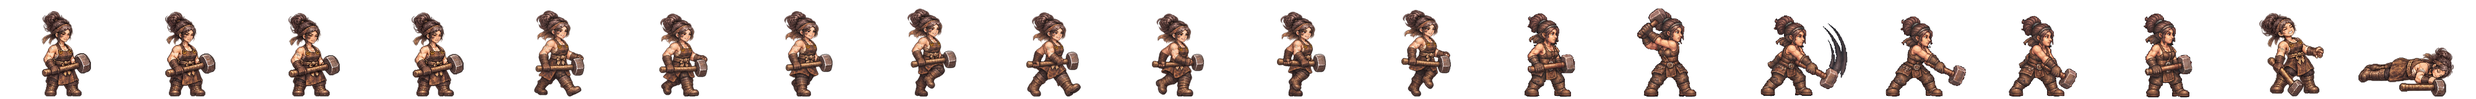
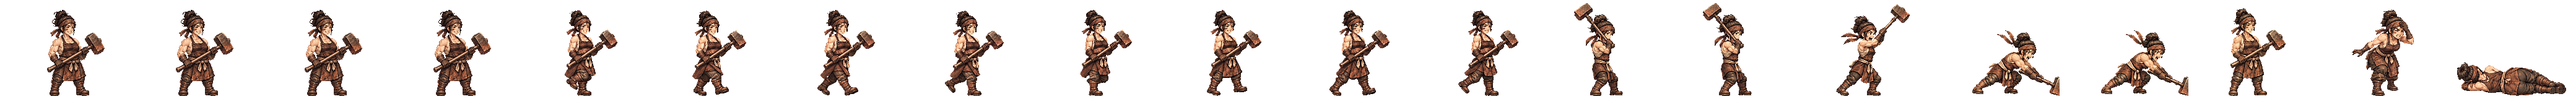
상당 불매 전투 띠를 새 방식으로: 서기·걷기·쇠망치 내려찍기 여덟 칸·두건 고쳐 매기·쓰러짐·맞음 (Codex 그림 · 눈 검수와 독립 검수) · 옛 2배 그림 연결 지움
Claude-Session: https://claude.ai/code/session_01TRiuN7s6aDfSnaHxrkctmU

Changed region(s): [[0.2188, 0.0625, 1.0, 1.0], [0.0, 0.125, 0.1875, 0.9688]]

diff --git a/src/realm/data/spritePx.ts b/src/realm/data/spritePx.ts
@@ -1,3 +1,3 @@
 /** public/realm/anim-px/manifest.json 의 사본 — tools/sprite-normalize.mjs 가 만든다 (손으로 고치지 말 것). 칸 [가로, 세로] · feet = 발 줄(칸 위에서 y) · bodyPx = 서 있는 몸 키 */
 import { expandManifest } from './sprite-manifest.ts'
-export const SPRITE_PX: Readonly<Record<string, { readonly cell: readonly [number, number]; readonly feet: number; readonly bodyPx: number; readonly kind: 'general' | 'soldier' | 'folk' | 'crowd'; readonly cells: number }>> = expandManifest<{ readonly cell: readonly [number, number]; readonly feet: number; readonly bodyPx: number; readonly kind: 'general' | 'soldier' | 'folk' | 'crowd'; readonly cells: number }>([{"cell":[166,128],"feet":126,"bodyPx":124,"kind":"soldier","cells":20},{"cell":[116,128],"feet":126,"bodyPx":117,"kind":"soldier","cells":20},{"cell":[127,128],"feet":126,"bodyPx":116,"kind":"soldier","cells":20},{"cell":[269,128],"feet":126,"bodyPx":126,"kind":"soldier","cells":20},{"cell":[503,128],"feet":126,"bodyPx":127,"kind":"soldier","cells":20},{"cell":[614,128],"feet":126,"bodyPx":126,"kind":"soldier","cells":20},{"cell":[200,160],"feet":156,"bodyPx":138,"kind":"general","cells":20},{"cell":[208,160],"feet":155,"bodyPx":138,"kind":"general","cells":20},{"cell":[208,160],"feet":154,"bodyPx":138,"kind":"general","cells":20},{"cell":[304,160],"feet":155,"bodyPx":135,"kind":"general","cells":20},{"cell":[184,160],"feet":156,"bodyPx":138,"kind":"general","cells":20},{"cell":[208,160],"feet":154,"bodyPx":136,"kind":"general","cells":20},{"cell":[232,160],"feet":156,"bodyPx":138,"kind":"general","cells":20},{"cell":[208,160],"feet":156,"bodyPx":138,"kind":"general","cells":20},{"cell":[168,160],"feet":156,"bodyPx":124,"kind":"general","cells":20},{"cell":[216,160],"feet":156,"bodyPx":130,"kind":"general","cells":20},{"cell":[200,160],"feet":156,"bodyPx":116,"kind":"general","cells":20},{"cell":[192,160],"feet":156,"bodyPx":138,"kind":"general","cells":20},{"cell":[208,160],"feet":154,"bodyPx":135,"kind":"general","cells":20},{"cell":[280,160],"feet":156,"bodyPx":138,"kind":"general","cells":20},{"cell":[232,160],"feet":156,"bodyPx":134,"kind":"general","cells":20},{"cell":[144,160],"feet":156,"bodyPx":70,"kind":"general","cells":20},{"cell":[208,160],"feet":156,"bodyPx":70,"kind":"general","cells":20},{"cell":[192,160],"feet":156,"bodyPx":70,"kind":"general","cells":20},{"cell":[240,160],"feet":155,"bodyPx":138,"kind":"general","cells":20},{"cell":[192,160],"feet":156,"bodyPx":128,"kind":"general","cells":20},{"cell":[224,160],"feet":155,"bodyPx":138,"kind":"general","cells":20},{"cell":[208,160],"feet":154,"bodyPx":137,"kind":"general","cells":20},{"cell":[216,160],"feet":156,"bodyPx":138,"kind":"general","cells":20},{"cell":[208,160],"feet":156,"bodyPx":134,"kind":"general","cells":20},{"cell":[208,160],"feet":154,"bodyPx":130,"kind":"general","cells":20},{"cell":[248,160],"feet":156,"bodyPx":138,"kind":"general","cells":20},{"cell":[248,160],"feet":155,"bodyPx":138,"kind":"general","cells":20},{"cell":[192,160],"feet":155,"bodyPx":138,"kind":"general","cells":20},{"cell":[192,160],"feet":156,"bodyPx":124,"kind":"general","cells":20},{"cell":[208,160],"feet":154,"bodyPx":131,"kind":"general","cells":20},{"cell":[256,160],"feet":156,"bodyPx":138,"kind":"general","cells":20},{"cell":[240,160],"feet":156,"bodyPx":138,"kind":"general","cells":20},{"cell":[232,160],"feet":156,"bodyPx":73,"kind":"general","cells":20},{"cell":[224,160],"feet":156,"bodyPx":138,"kind":"general","cells":20},{"cell":[224,160],"feet":156,"bodyPx":128,"kind":"general","cells":20},{"cell":[176,160],"feet":156,"bodyPx":129,"kind":"general","cells":20},{"cell":[208,160],"feet":154,"bodyPx":139,"kind":"general","cells":20},{"cell":[232,160],"feet":155,"bodyPx":138,"kind":"general","cells":20},{"cell":[208,160],"feet":156,"bodyPx":132,"kind":"general","cells":20},{"cell":[184,160],"feet":156,"bodyPx":122,"kind":"general","cells":20},{"cell":[280,160],"feet":155,"bodyPx":133,"kind":"general","cells":20},{"cell":[176,160],"feet":156,"bodyPx":70,"kind":"general","cells":20},{"cell":[186,128],"feet":126,"bodyPx":127,"kind":"soldier","cells":20},{"cell":[298,128],"feet":126,"bodyPx":126,"kind":"soldier","cells":20},{"cell":[82,128],"feet":126,"bodyPx":114,"kind":"folk","cells":8},{"cell":[134,128],"feet":126,"bodyPx":119,"kind":"soldier","cells":20},{"cell":[380,128],"feet":126,"bodyPx":124,"kind":"soldier","cells":20},{"cell":[114,128],"feet":126,"bodyPx":115,"kind":"soldier","cells":20},{"cell":[122,128],"feet":126,"bodyPx":114,"kind":"soldier","cells":20},{"cell":[254,128],"feet":126,"bodyPx":128,"kind":"soldier","cells":20},{"cell":[438,128],"feet":126,"bodyPx":126,"kind":"soldier","cells":20},{"cell":[88,128],"feet":126,"bodyPx":113,"kind":"folk","cells":8},{"cell":[100,128],"feet":126,"bodyPx":115,"kind":"folk","cells":8},{"cell":[108,128],"feet":126,"bodyPx":115,"kind":"folk","cells":8},{"cell":[63,128],"feet":126,"bodyPx":113,"kind":"folk","cells":8},{"cell":[69,96],"feet":96,"bodyPx":96,"kind":"crowd","cells":1},{"cell":[54,96],"feet":96,"bodyPx":96,"kind":"crowd","cells":1},{"cell":[47,96],"feet":96,"bodyPx":96,"kind":"crowd","cells":1},{"cell":[49,96],"feet":96,"bodyPx":96,"kind":"crowd","cells":1},{"cell":[57,96],"feet":96,"bodyPx":96,"kind":"crowd","cells":1},{"cell":[55,96],"feet":96,"bodyPx":96,"kind":"crowd","cells":1},{"cell":[45,96],"feet":96,"bodyPx":96,"kind":"crowd","cells":1},{"cell":[53,96],"feet":96,"bodyPx":96,"kind":"crowd","cells":1},{"cell":[64,96],"feet":96,"bodyPx":96,"kind":"crowd","cells":1},{"cell":[264,160],"feet":156,"bodyPx":138,"kind":"general","cells":20},{"cell":[184,160],"feet":156,"bodyPx":124,"kind":"general","cells":20},{"cell":[208,160],"feet":154,"bodyPx":134,"kind":"general","cells":20},{"cell":[224,160],"feet":156,"bodyPx":133,"kind":"general","cells":20},{"cell":[184,160],"feet":156,"bodyPx":137,"kind":"general","cells":20},{"cell":[176,160],"feet":156,"bodyPx":130,"kind":"general","cells":20},{"cell":[216,160],"feet":156,"bodyPx":134,"kind":"general","cells":20},{"cell":[216,160],"feet":156,"bodyPx":132,"kind":"general","cells":20},{"cell":[288,160],"feet":156,"bodyPx":138,"kind":"general","cells":20},{"cell":[192,160],"feet":156,"bodyPx":118,"kind":"general","cells":20},{"cell":[208,160],"feet":154,"bodyPx":132,"kind":"general","cells":20},{"cell":[208,160],"feet":154,"bodyPx":128,"kind":"general","cells":20},{"cell":[240,160],"feet":156,"bodyPx":128,"kind":"general","cells":20},{"cell":[184,160],"feet":156,"bodyPx":132,"kind":"general","cells":20},{"cell":[208,160],"feet":156,"bodyPx":123,"kind":"general","cells":20},{"cell":[192,160],"feet":156,"bodyPx":135,"kind":"general","cells":20},{"cell":[176,160],"feet":156,"bodyPx":116,"kind":"general","cells":20},{"cell":[272,160],"feet":156,"bodyPx":138,"kind":"general","cells":20},{"cell":[176,160],"feet":156,"bodyPx":138,"kind":"general","cells":20},{"cell":[176,160],"feet":156,"bodyPx":122,"kind":"general","cells":20},{"cell":[232,160],"feet":156,"bodyPx":127,"kind":"general","cells":20},{"cell":[184,160],"feet":156,"bodyPx":134,"kind":"general","cells":20},{"cell":[168,160],"feet":156,"bodyPx":138,"kind":"general","cells":20},{"cell":[176,160],"feet":156,"bodyPx":137,"kind":"general","cells":20},{"cell":[184,160],"feet":156,"bodyPx":133,"kind":"general","cells":20}],[["axe",0],["bandit-chief",1],["bandit-club",2],["boat",3],["bow",4],["crossbow",5],["gen-adogan",6],["gen-alpyeong",7],["gen-ara",8],["gen-areum",8],["gen-aryeong",9],["gen-bakdal",8],["gen-baram",8],["gen-bdanbi",10],["gen-beom",11],["gen-beombal",8],["gen-beomi",8],["gen-bira",12],["gen-biryu",13],["gen-budeul",8],["gen-byeol",8],["gen-daemusin",14],["gen-daeso",15],["gen-dallae2",10],["gen-dalli",8],["gen-damul",16],["gen-danbi",8],["gen-dangung",17],["gen-darae",18],["gen-dokmudeom",8],["gen-duman",19],["gen-eomni",8],["gen-eureum",20],["gen-g-bow",21],["gen-g-spear",22],["gen-g-sword",23],["gen-gaennae",8],["gen-gamsil",24],["gen-gaon",18],["gen-geota",13],["gen-geumbawi",10],["gen-geumha",25],["gen-goeun",8],["gen-gom",26],["gen-gomok",13],["gen-gureum",8],["gen-guryema",17],["gen-gwaeyu",12],["gen-haebi",8],["gen-haedal",6],["gen-haesol",8],["gen-halla",27],["gen-heo",8],["gen-hneoul",10],["gen-hogong",28],["gen-hojin",13],["gen-horselord",29],["gen-hwalmi",30],["gen-hyeokgeose",17],["gen-hyeopbo",6],["gen-irang",8],["gen-jibaekho",31],["gen-jinha",32],["gen-jita",33],["gen-jumong",34],["gen-keundol",7],["gen-maehwa",35],["gen-maenun",17],["gen-malgalgi",36],["gen-mari",37],["gen-maro",31],["gen-maryeo",13],["gen-mdallae",8],["gen-mir",6],["gen-mount",38],["gen-mulbeom",27],["gen-mulsae",27],["gen-musoe",28],["gen-noeul",8],["gen-nuri",8],["gen-ocheongan",39],["gen-odi",8],["gen-odogan",6],["gen-ogan",17],["gen-oi",40],["gen-olddaeso",20],["gen-onjo",41],["gen-pidogan",13],["gen-sagong",42],["gen-sdallae",6],["gen-sincheongan",8],["gen-singwigan",28],["gen-sinneoul",8],["gen-sobeol",43],["gen-soebi",8],["gen-soebo",44],["gen-soenun",42],["gen-sogeumbi",27],["gen-songbi",39],["gen-songyang",45],["gen-sori",8],["gen-soseono",46],["gen-suro",17],["gen-tahae",6],["gen-tneoul",8],["gen-w-bow",21],["gen-w-spear",47],["gen-waechief",13],["gen-wan",28],["gen-yeodogan",13],["gen-yucheongan",8],["gen-yusugan",31],["horse",48],["marine",49],["migrant",50],["militia",51],["pike",52],["pirate-captain",53],["pirate-sword",54],["shield",55],["spear",56],["villager-builder",57],["villager-farmer",58],["villager-porter",59],["villager-woman",60],["crowd-b1",61],["crowd-b2",62],["crowd-b3",63],["crowd-b4",64],["crowd-b5",65],["crowd-b6",66],["crowd-f1",61],["crowd-f2",66],["crowd-f3",67],["crowd-f4",68],["crowd-f5",61],["crowd-f6",69],["gen-dalbit",13],["gen-base-g-07-drunk-warrior",17],["gen-base-g-40-anya-adan",13],["gen-base-w-13-young-archer",8],["gen-base-g-03-sea-trader",37],["gen-base-w-10-pirate-captain",42],["gen-base-w-64-miri-dallae",42],["gen-base-g-41-goja-bau",37],["gen-base-g-42-dokro-garam",70],["gen-base-g-09-farmer-conscript",28],["gen-base-w-02-goguryeo-lady",8],["gen-base-w-17-mahan-pearl-diver",8],["gen-base-g-17-saro-isageum",44],["gen-base-g-18-daegaya-king",71],["gen-base-g-35-dabeol-dalgu",13],["gen-base-g-19-sabeol-veteran",28],["gen-base-w-23-usisan-whale-queen",8],["gen-base-g-36-gammun-gamdol",39],["gen-base-g-20-samul-sea-lord",36],["gen-base-g-37-eumjeup-jeup",10],["gen-base-g-38-chopal-palmae",17],["gen-base-w-75-daegaya-soemoe",8],["gen-base-g-45-dabeol-deulgae",10],["gen-base-g-04-jinhan-giant",13],["gen-base-g-08-veteran",13],["gen-base-w-18-jinhan-salt-widow",8],["gen-base-w-12-court-dancer",72],["gen-base-w-83-gyeonji-beodeul",73],["gen-base-w-05-baekje-queen",18],["gen-base-w-21-baekje-court-dancer",10],["gen-base-g-01-master-smith",74],["gen-base-g-93-jomun-solgae",75],["gen-base-g-57-bihwa-neup",37],["gen-base-w-72-eumjeup-beol",8],["gen-base-w-102-garak-dana",42],["gen-base-g-68-baekje-onnuri",13],["gen-base-w-27-mokji-jinha",6],["gen-base-g-22-ungcheon-gomnae",6],["gen-base-g-23-sangdang-soedal",13],["gen-base-g-24-wansan-onsan",6],["gen-base-g-25-balla-keunmoe",28],["gen-base-g-61-heomcheuk-bawi",28],["gen-base-g-88-wander-soeul",39],["gen-base-w-14-feast-spy",8],["gen-base-g-12-silla-youth",76],["gen-base-w-08-mahan-warrior",8],["gen-base-g-62-beonye-hanul",37],["gen-base-g-63-heomcheuk-beogeum",13],["gen-base-g-84-wander-seoneul",13],["gen-base-w-50-siljik-mulga",28],["gen-base-g-46-uga-nureongso",28],["gen-base-w-80-usan-gangchi",42],["gen-base-g-47-guga-sanyanggae",28],["gen-base-w-76-gampyeong-baetsagong",8],["gen-base-g-05-mahan-chieftain",77],["gen-base-g-58-usan-uhae",13],["gen-base-g-27-maek-maekdol",13],["gen-base-w-53-hwanna-gabi",42],["gen-base-w-29-golpo-janmul",31],["gen-base-g-53-baekje-haeru",6],["gen-base-w-71-yeonna-neoul",8],["gen-base-w-79-yangmaek-solmae",8],["gen-base-w-34-chopal-deulme",8],["gen-base-g-44-maga-malgup",78],["gen-base-w-31-dabeol-dalbit",42],["gen-base-g-51-biryuna-mulgyeol",39],["gen-base-g-48-gwanna-musoe",13],["gen-base-g-32-uga-sodu",12],["gen-base-g-49-goguryeo-sona",79],["gen-base-g-30-gwanna-soemoe",39],["gen-base-g-52-tamna-oreum",10],["gen-base-g-29-yeonna-myeongsol",34],["gen-base-w-56-dongokjeo-sogeum",72],["gen-base-g-54-mokji-mahan",12],["gen-base-g-33-jeoga-metdol",17],["gen-base-w-36-baekje-maena",8],["gen-base-w-38-sangdang-bulmae",6],["gen-base-w-39-gosaburi-galmae",8],["gen-base-w-40-mujin-munui",80],["gen-base-w-41-hwanna-beodeul",81],["gen-base-w-43-uga-nuri",36],["gen-base-w-45-tamna-oreumbi",10],["gen-base-g-60-golbeol-golgae",10],["gen-base-g-61-apdok-ap",28],["gen-base-g-62-gammun-gamnamu",6],["gen-base-g-63-chopal-yeoul",31],["gen-base-g-64-michuhol-sogeumkkun",37],["gen-base-g-65-sangdang-soemangchi",39],["gen-base-g-66-geonma-malbalgup",82],["gen-base-g-67-gosaburi-buri",83],["gen-base-g-68-mujin-bitgoeul",10],["gen-base-g-69-goryong-yong",39],["gen-base-g-70-siljik-pado",37],["gen-base-w-81-byeokjin-byeolbit",8],["gen-base-w-46-geonma-maru",8],["gen-base-w-48-mujin-mudeung",8],["gen-base-g-26-gampyeong-gaetbeol",12],["gen-base-g-60-eupcha-hangyeol",84],["gen-base-g-15-shaman-man",28],["gen-base-g-85-wander-ure",31],["gen-base-g-43-hwanna-amnok",13],["gen-base-g-50-bullae-gwaha",85],["gen-base-g-55-saro-bakdal",13],["gen-base-g-56-haseulla-gwahama",6],["gen-base-w-06-buyeo-huntress",27],["gen-base-w-22-dongye-tiger-huntress",8],["gen-base-w-25-bihwa-priestess",8],["gen-base-w-24-apdok-queen",8],["gen-base-w-61-iseo-sinae",8],["gen-base-w-26-iseo-tomboy-general",8],["gen-base-g-59-yangmaek-maekson",86],["gen-aw1-haebi",39],["gen-aw1-soseono",87],["gen-aw1-gamsil",10],["gen-aw1-mir",88],["gen-aw1-dangung",6],["gen-aw1-ara",39],["gen-aw1-jumong",89],["gen-aw1-onjo",90],["gen-aw1-base-w-83-gyeonji-beodeul",17],["gen-aw1-heo",70],["gen-aw1-base-g-38-chopal-palmae",6],["gen-aw1-base-w-25-bihwa-priestess",91],["gen-aw1-sori",92],["gen-aw1-gomok",6],["gen-aw1-irang",17],["gen-aw1-budeul",92],["gen-aw1-gom",37],["gen-aw1-sdallae",6],["gen-aw1-base-w-13-young-archer",6],["gen-aw1-base-w-36-baekje-maena",93],["gen-aw1-base-g-09-farmer-conscript",70],["gen-aw1-base-w-02-goguryeo-lady",94],["gen-aw1-haedal",10],["gen-aw1-hogong",6],["gen-aw1-maehwa",88],["gen-aw1-base-w-06-buyeo-huntress",12],["gen-aw1-base-w-08-mahan-warrior",39],["gen-aw1-base-w-29-golpo-janmul",39],["gen-aw1-base-w-31-dabeol-dalbit",17],["gen-aw1-base-w-38-sangdang-bulmae",92],["gen-aw1-bira",28],["gen-aw1-base-w-53-hwanna-gabi",92],["gen-aw1-base-w-56-dongokjeo-sogeum",88],["gen-aw1-base-w-72-eumjeup-beol",17],["gen-aw1-bdanbi",92],["gen-aw1-beom",10],["gen-aw1-beombal",10],["gen-aw1-byeol",17],["gen-aw1-dalli",88],["gen-aw1-malgalgi",31],["gen-aw1-sincheongan",28]])
+export const SPRITE_PX: Readonly<Record<string, { readonly cell: readonly [number, number]; readonly feet: number; readonly bodyPx: number; readonly kind: 'general' | 'soldier' | 'folk' | 'crowd'; readonly cells: number }>> = expandManifest<{ readonly cell: readonly [number, number]; readonly feet: number; readonly bodyPx: number; readonly kind: 'general' | 'soldier' | 'folk' | 'crowd'; readonly cells: number }>([{"cell":[166,128],"feet":126,"bodyPx":124,"kind":"soldier","cells":20},{"cell":[116,128],"feet":126,"bodyPx":117,"kind":"soldier","cells":20},{"cell":[127,128],"feet":126,"bodyPx":116,"kind":"soldier","cells":20},{"cell":[269,128],"feet":126,"bodyPx":126,"kind":"soldier","cells":20},{"cell":[503,128],"feet":126,"bodyPx":127,"kind":"soldier","cells":20},{"cell":[614,128],"feet":126,"bodyPx":126,"kind":"soldier","cells":20},{"cell":[200,160],"feet":156,"bodyPx":138,"kind":"general","cells":20},{"cell":[208,160],"feet":155,"bodyPx":138,"kind":"general","cells":20},{"cell":[208,160],"feet":154,"bodyPx":138,"kind":"general","cells":20},{"cell":[304,160],"feet":155,"bodyPx":135,"kind":"general","cells":20},{"cell":[184,160],"feet":156,"bodyPx":138,"kind":"general","cells":20},{"cell":[208,160],"feet":154,"bodyPx":136,"kind":"general","cells":20},{"cell":[232,160],"feet":156,"bodyPx":138,"kind":"general","cells":20},{"cell":[208,160],"feet":156,"bodyPx":138,"kind":"general","cells":20},{"cell":[168,160],"feet":156,"bodyPx":124,"kind":"general","cells":20},{"cell":[216,160],"feet":156,"bodyPx":130,"kind":"general","cells":20},{"cell":[200,160],"feet":156,"bodyPx":116,"kind":"general","cells":20},{"cell":[192,160],"feet":156,"bodyPx":138,"kind":"general","cells":20},{"cell":[208,160],"feet":154,"bodyPx":135,"kind":"general","cells":20},{"cell":[280,160],"feet":156,"bodyPx":138,"kind":"general","cells":20},{"cell":[232,160],"feet":156,"bodyPx":134,"kind":"general","cells":20},{"cell":[144,160],"feet":156,"bodyPx":70,"kind":"general","cells":20},{"cell":[208,160],"feet":156,"bodyPx":70,"kind":"general","cells":20},{"cell":[192,160],"feet":156,"bodyPx":70,"kind":"general","cells":20},{"cell":[240,160],"feet":155,"bodyPx":138,"kind":"general","cells":20},{"cell":[192,160],"feet":156,"bodyPx":128,"kind":"general","cells":20},{"cell":[224,160],"feet":155,"bodyPx":138,"kind":"general","cells":20},{"cell":[208,160],"feet":154,"bodyPx":137,"kind":"general","cells":20},{"cell":[216,160],"feet":156,"bodyPx":138,"kind":"general","cells":20},{"cell":[208,160],"feet":156,"bodyPx":134,"kind":"general","cells":20},{"cell":[208,160],"feet":154,"bodyPx":130,"kind":"general","cells":20},{"cell":[248,160],"feet":156,"bodyPx":138,"kind":"general","cells":20},{"cell":[248,160],"feet":155,"bodyPx":138,"kind":"general","cells":20},{"cell":[192,160],"feet":155,"bodyPx":138,"kind":"general","cells":20},{"cell":[192,160],"feet":156,"bodyPx":124,"kind":"general","cells":20},{"cell":[208,160],"feet":154,"bodyPx":131,"kind":"general","cells":20},{"cell":[256,160],"feet":156,"bodyPx":138,"kind":"general","cells":20},{"cell":[240,160],"feet":156,"bodyPx":138,"kind":"general","cells":20},{"cell":[232,160],"feet":156,"bodyPx":73,"kind":"general","cells":20},{"cell":[224,160],"feet":156,"bodyPx":138,"kind":"general","cells":20},{"cell":[224,160],"feet":156,"bodyPx":128,"kind":"general","cells":20},{"cell":[176,160],"feet":156,"bodyPx":129,"kind":"general","cells":20},{"cell":[208,160],"feet":154,"bodyPx":139,"kind":"general","cells":20},{"cell":[232,160],"feet":155,"bodyPx":138,"kind":"general","cells":20},{"cell":[208,160],"feet":156,"bodyPx":132,"kind":"general","cells":20},{"cell":[184,160],"feet":156,"bodyPx":122,"kind":"general","cells":20},{"cell":[280,160],"feet":155,"bodyPx":133,"kind":"general","cells":20},{"cell":[176,160],"feet":156,"bodyPx":70,"kind":"general","cells":20},{"cell":[186,128],"feet":126,"bodyPx":127,"kind":"soldier","cells":20},{"cell":[298,128],"feet":126,"bodyPx":126,"kind":"soldier","cells":20},{"cell":[82,128],"feet":126,"bodyPx":114,"kind":"folk","cells":8},{"cell":[134,128],"feet":126,"bodyPx":119,"kind":"soldier","cells":20},{"cell":[380,128],"feet":126,"bodyPx":124,"kind":"soldier","cells":20},{"cell":[114,128],"feet":126,"bodyPx":115,"kind":"soldier","cells":20},{"cell":[122,128],"feet":126,"bodyPx":114,"kind":"soldier","cells":20},{"cell":[254,128],"feet":126,"bodyPx":128,"kind":"soldier","cells":20},{"cell":[438,128],"feet":126,"bodyPx":126,"kind":"soldier","cells":20},{"cell":[88,128],"feet":126,"bodyPx":113,"kind":"folk","cells":8},{"cell":[100,128],"feet":126,"bodyPx":115,"kind":"folk","cells":8},{"cell":[108,128],"feet":126,"bodyPx":115,"kind":"folk","cells":8},{"cell":[63,128],"feet":126,"bodyPx":113,"kind":"folk","cells":8},{"cell":[69,96],"feet":96,"bodyPx":96,"kind":"crowd","cells":1},{"cell":[54,96],"feet":96,"bodyPx":96,"kind":"crowd","cells":1},{"cell":[47,96],"feet":96,"bodyPx":96,"kind":"crowd","cells":1},{"cell":[49,96],"feet":96,"bodyPx":96,"kind":"crowd","cells":1},{"cell":[57,96],"feet":96,"bodyPx":96,"kind":"crowd","cells":1},{"cell":[55,96],"feet":96,"bodyPx":96,"kind":"crowd","cells":1},{"cell":[45,96],"feet":96,"bodyPx":96,"kind":"crowd","cells":1},{"cell":[53,96],"feet":96,"bodyPx":96,"kind":"crowd","cells":1},{"cell":[64,96],"feet":96,"bodyPx":96,"kind":"crowd","cells":1},{"cell":[264,160],"feet":156,"bodyPx":138,"kind":"general","cells":20},{"cell":[184,160],"feet":156,"bodyPx":124,"kind":"general","cells":20},{"cell":[208,160],"feet":154,"bodyPx":134,"kind":"general","cells":20},{"cell":[224,160],"feet":156,"bodyPx":133,"kind":"general","cells":20},{"cell":[184,160],"feet":156,"bodyPx":137,"kind":"general","cells":20},{"cell":[176,160],"feet":156,"bodyPx":130,"kind":"general","cells":20},{"cell":[216,160],"feet":156,"bodyPx":134,"kind":"general","cells":20},{"cell":[216,160],"feet":156,"bodyPx":132,"kind":"general","cells":20},{"cell":[288,160],"feet":156,"bodyPx":138,"kind":"general","cells":20},{"cell":[192,160],"feet":156,"bodyPx":118,"kind":"general","cells":20},{"cell":[208,160],"feet":154,"bodyPx":132,"kind":"general","cells":20},{"cell":[208,160],"feet":154,"bodyPx":128,"kind":"general","cells":20},{"cell":[240,160],"feet":156,"bodyPx":128,"kind":"general","cells":20},{"cell":[184,160],"feet":156,"bodyPx":132,"kind":"general","cells":20},{"cell":[208,160],"feet":156,"bodyPx":123,"kind":"general","cells":20},{"cell":[192,160],"feet":156,"bodyPx":135,"kind":"general","cells":20},{"cell":[176,160],"feet":156,"bodyPx":116,"kind":"general","cells":20},{"cell":[272,160],"feet":156,"bodyPx":138,"kind":"general","cells":20},{"cell":[176,160],"feet":156,"bodyPx":138,"kind":"general","cells":20},{"cell":[176,160],"feet":156,"bodyPx":122,"kind":"general","cells":20},{"cell":[232,160],"feet":156,"bodyPx":127,"kind":"general","cells":20},{"cell":[184,160],"feet":156,"bodyPx":134,"kind":"general","cells":20},{"cell":[168,160],"feet":156,"bodyPx":138,"kind":"general","cells":20},{"cell":[176,160],"feet":156,"bodyPx":137,"kind":"general","cells":20},{"cell":[184,160],"feet":156,"bodyPx":133,"kind":"general","cells":20}],[["axe",0],["bandit-chief",1],["bandit-club",2],["boat",3],["bow",4],["crossbow",5],["gen-adogan",6],["gen-alpyeong",7],["gen-ara",8],["gen-areum",8],["gen-aryeong",9],["gen-bakdal",8],["gen-baram",8],["gen-bdanbi",10],["gen-beom",11],["gen-beombal",8],["gen-beomi",8],["gen-bira",12],["gen-biryu",13],["gen-budeul",8],["gen-byeol",8],["gen-daemusin",14],["gen-daeso",15],["gen-dallae2",10],["gen-dalli",8],["gen-damul",16],["gen-danbi",8],["gen-dangung",17],["gen-darae",18],["gen-dokmudeom",8],["gen-duman",19],["gen-eomni",8],["gen-eureum",20],["gen-g-bow",21],["gen-g-spear",22],["gen-g-sword",23],["gen-gaennae",8],["gen-gamsil",24],["gen-gaon",18],["gen-geota",13],["gen-geumbawi",10],["gen-geumha",25],["gen-goeun",8],["gen-gom",26],["gen-gomok",13],["gen-gureum",8],["gen-guryema",17],["gen-gwaeyu",12],["gen-haebi",8],["gen-haedal",6],["gen-haesol",8],["gen-halla",27],["gen-heo",8],["gen-hneoul",10],["gen-hogong",28],["gen-hojin",13],["gen-horselord",29],["gen-hwalmi",30],["gen-hyeokgeose",17],["gen-hyeopbo",6],["gen-irang",8],["gen-jibaekho",31],["gen-jinha",32],["gen-jita",33],["gen-jumong",34],["gen-keundol",7],["gen-maehwa",35],["gen-maenun",17],["gen-malgalgi",36],["gen-mari",37],["gen-maro",31],["gen-maryeo",13],["gen-mdallae",8],["gen-mir",6],["gen-mount",38],["gen-mulbeom",27],["gen-mulsae",27],["gen-musoe",28],["gen-noeul",8],["gen-nuri",8],["gen-ocheongan",39],["gen-odi",8],["gen-odogan",6],["gen-ogan",17],["gen-oi",40],["gen-olddaeso",20],["gen-onjo",41],["gen-pidogan",13],["gen-sagong",42],["gen-sdallae",6],["gen-sincheongan",8],["gen-singwigan",28],["gen-sinneoul",8],["gen-sobeol",43],["gen-soebi",8],["gen-soebo",44],["gen-soenun",42],["gen-sogeumbi",27],["gen-songbi",39],["gen-songyang",45],["gen-sori",8],["gen-soseono",46],["gen-suro",17],["gen-tahae",6],["gen-tneoul",8],["gen-w-bow",21],["gen-w-spear",47],["gen-waechief",13],["gen-wan",28],["gen-yeodogan",13],["gen-yucheongan",8],["gen-yusugan",31],["horse",48],["marine",49],["migrant",50],["militia",51],["pike",52],["pirate-captain",53],["pirate-sword",54],["shield",55],["spear",56],["villager-builder",57],["villager-farmer",58],["villager-porter",59],["villager-woman",60],["crowd-b1",61],["crowd-b2",62],["crowd-b3",63],["crowd-b4",64],["crowd-b5",65],["crowd-b6",66],["crowd-f1",61],["crowd-f2",66],["crowd-f3",67],["crowd-f4",68],["crowd-f5",61],["crowd-f6",69],["gen-dalbit",13],["gen-base-g-07-drunk-warrior",17],["gen-base-g-40-anya-adan",13],["gen-base-w-13-young-archer",8],["gen-base-g-03-sea-trader",37],["gen-base-w-10-pirate-captain",42],["gen-base-w-64-miri-dallae",42],["gen-base-g-41-goja-bau",37],["gen-base-g-42-dokro-garam",70],["gen-base-g-09-farmer-conscript",28],["gen-base-w-02-goguryeo-lady",8],["gen-base-w-17-mahan-pearl-diver",8],["gen-base-g-17-saro-isageum",44],["gen-base-g-18-daegaya-king",71],["gen-base-g-35-dabeol-dalgu",13],["gen-base-g-19-sabeol-veteran",28],["gen-base-w-23-usisan-whale-queen",8],["gen-base-g-36-gammun-gamdol",39],["gen-base-g-20-samul-sea-lord",36],["gen-base-g-37-eumjeup-jeup",10],["gen-base-g-38-chopal-palmae",17],["gen-base-w-75-daegaya-soemoe",8],["gen-base-g-45-dabeol-deulgae",10],["gen-base-g-04-jinhan-giant",13],["gen-base-g-08-veteran",13],["gen-base-w-18-jinhan-salt-widow",8],["gen-base-w-12-court-dancer",72],["gen-base-w-83-gyeonji-beodeul",73],["gen-base-w-05-baekje-queen",18],["gen-base-w-21-baekje-court-dancer",10],["gen-base-g-01-master-smith",74],["gen-base-g-93-jomun-solgae",75],["gen-base-g-57-bihwa-neup",37],["gen-base-w-72-eumjeup-beol",8],["gen-base-w-102-garak-dana",42],["gen-base-g-68-baekje-onnuri",13],["gen-base-w-27-mokji-jinha",6],["gen-base-g-22-ungcheon-gomnae",6],["gen-base-g-23-sangdang-soedal",13],["gen-base-g-24-wansan-onsan",6],["gen-base-g-25-balla-keunmoe",28],["gen-base-g-61-heomcheuk-bawi",28],["gen-base-g-88-wander-soeul",39],["gen-base-w-14-feast-spy",8],["gen-base-g-12-silla-youth",76],["gen-base-w-08-mahan-warrior",8],["gen-base-g-62-beonye-hanul",37],["gen-base-g-63-heomcheuk-beogeum",13],["gen-base-g-84-wander-seoneul",13],["gen-base-w-50-siljik-mulga",28],["gen-base-g-46-uga-nureongso",28],["gen-base-w-80-usan-gangchi",42],["gen-base-g-47-guga-sanyanggae",28],["gen-base-w-76-gampyeong-baetsagong",8],["gen-base-g-05-mahan-chieftain",77],["gen-base-g-58-usan-uhae",13],["gen-base-g-27-maek-maekdol",13],["gen-base-w-53-hwanna-gabi",42],["gen-base-w-29-golpo-janmul",31],["gen-base-g-53-baekje-haeru",6],["gen-base-w-71-yeonna-neoul",8],["gen-base-w-79-yangmaek-solmae",8],["gen-base-w-34-chopal-deulme",8],["gen-base-g-44-maga-malgup",78],["gen-base-w-31-dabeol-dalbit",42],["gen-base-g-51-biryuna-mulgyeol",39],["gen-base-g-48-gwanna-musoe",13],["gen-base-g-32-uga-sodu",12],["gen-base-g-49-goguryeo-sona",79],["gen-base-g-30-gwanna-soemoe",39],["gen-base-g-52-tamna-oreum",10],["gen-base-g-29-yeonna-myeongsol",34],["gen-base-w-56-dongokjeo-sogeum",72],["gen-base-g-54-mokji-mahan",12],["gen-base-g-33-jeoga-metdol",17],["gen-base-w-36-baekje-maena",8],["gen-base-w-38-sangdang-bulmae",42],["gen-base-w-39-gosaburi-galmae",8],["gen-base-w-40-mujin-munui",80],["gen-base-w-41-hwanna-beodeul",81],["gen-base-w-43-uga-nuri",36],["gen-base-w-45-tamna-oreumbi",10],["gen-base-g-60-golbeol-golgae",10],["gen-base-g-61-apdok-ap",28],["gen-base-g-62-gammun-gamnamu",6],["gen-base-g-63-chopal-yeoul",31],["gen-base-g-64-michuhol-sogeumkkun",37],["gen-base-g-65-sangdang-soemangchi",39],["gen-base-g-66-geonma-malbalgup",82],["gen-base-g-67-gosaburi-buri",83],["gen-base-g-68-mujin-bitgoeul",10],["gen-base-g-69-goryong-yong",39],["gen-base-g-70-siljik-pado",37],["gen-base-w-81-byeokjin-byeolbit",8],["gen-base-w-46-geonma-maru",8],["gen-base-w-48-mujin-mudeung",8],["gen-base-g-26-gampyeong-gaetbeol",12],["gen-base-g-60-eupcha-hangyeol",84],["gen-base-g-15-shaman-man",28],["gen-base-g-85-wander-ure",31],["gen-base-g-43-hwanna-amnok",13],["gen-base-g-50-bullae-gwaha",85],["gen-base-g-55-saro-bakdal",13],["gen-base-g-56-haseulla-gwahama",6],["gen-base-w-06-buyeo-huntress",27],["gen-base-w-22-dongye-tiger-huntress",8],["gen-base-w-25-bihwa-priestess",8],["gen-base-w-24-apdok-queen",8],["gen-base-w-61-iseo-sinae",8],["gen-base-w-26-iseo-tomboy-general",8],["gen-base-g-59-yangmaek-maekson",86],["gen-aw1-haebi",39],["gen-aw1-soseono",87],["gen-aw1-gamsil",10],["gen-aw1-mir",88],["gen-aw1-dangung",6],["gen-aw1-ara",39],["gen-aw1-jumong",89],["gen-aw1-onjo",90],["gen-aw1-base-w-83-gyeonji-beodeul",17],["gen-aw1-heo",70],["gen-aw1-base-g-38-chopal-palmae",6],["gen-aw1-base-w-25-bihwa-priestess",91],["gen-aw1-sori",92],["gen-aw1-gomok",6],["gen-aw1-irang",17],["gen-aw1-budeul",92],["gen-aw1-gom",37],["gen-aw1-sdallae",6],["gen-aw1-base-w-13-young-archer",6],["gen-aw1-base-w-36-baekje-maena",93],["gen-aw1-base-g-09-farmer-conscript",70],["gen-aw1-base-w-02-goguryeo-lady",94],["gen-aw1-haedal",10],["gen-aw1-hogong",6],["gen-aw1-maehwa",88],["gen-aw1-base-w-06-buyeo-huntress",12],["gen-aw1-base-w-08-mahan-warrior",39],["gen-aw1-base-w-29-golpo-janmul",39],["gen-aw1-base-w-31-dabeol-dalbit",17],["gen-aw1-base-w-38-sangdang-bulmae",92],["gen-aw1-bira",28],["gen-aw1-base-w-53-hwanna-gabi",92],["gen-aw1-base-w-56-dongokjeo-sogeum",88],["gen-aw1-base-w-72-eumjeup-beol",17],["gen-aw1-bdanbi",92],["gen-aw1-beom",10],["gen-aw1-beombal",10],["gen-aw1-byeol",17],["gen-aw1-dalli",88],["gen-aw1-malgalgi",31],["gen-aw1-sincheongan",28]])

diff --git a/src/duel/view.ts b/src/duel/view.ts
@@ -100,7 +100,7 @@ const crowdFront = [1, 2, 3, 4, 5, 6].map((i) => img(`realm/duel/crowd/b${i}.png
 const crowdReady = (set: HTMLImageElement[]): boolean => set.every((im) => im.complete && im.naturalWidth > 0)
 const pxMode = cfg.px !== false && params.get('px') !== '0'
 /** 겨루기 전용 옛 띠(duel/sprites) 대신 열전과 같은 도트 띠(anim-px)를 쓰는 장수 — 두 판에서 같은 모습 · 서기 계획·쓰러지는 칸도 같다 (11-23 범 · 매화 · 달빛 · 11-24 해비 · 아룸) */
-const PX_DUEL: ReadonlySet<string> = new Set(['beom', 'maehwa', 'base-w-31-dabeol-dalbit', 'haebi', 'areum', 'base-w-13-young-archer', 'base-w-10-pirate-captain', 'base-w-17-mahan-pearl-diver', 'base-w-06-buyeo-huntress', 'base-w-64-miri-dallae', 'ara', 'base-w-22-dongye-tiger-huntress', 'noeul', 'sagong', 'sinneoul', 'heo', 'base-w-08-mahan-warrior', 'base-w-23-usisan-whale-queen', 'base-w-26-iseo-tomboy-general', 'base-w-72-eumjeup-beol', 'tneoul', 'odi', 'base-w-76-gampyeong-baetsagong', 'base-w-34-chopal-deulme', 'base-w-102-garak-dana', 'base-w-36-baekje-maena', 'base-w-56-dongokjeo-sogeum', 'budeul', 'base-w-53-hwanna-gabi', 'base-w-18-jinhan-salt-widow', 'beombal', 'irang', 'sogeumbi', 'baram', 'byeol', 'base-w-71-yeonna-neoul', 'base-w-39-gosaburi-galmae', 'base-w-41-hwanna-beodeul', 'base-w-79-yangmaek-solmae', 'base-w-46-geonma-maru', 'base-w-48-mujin-mudeung', 'base-w-80-usan-gangchi', 'base-w-81-byeokjin-byeolbit', 'beomi', 'danbi', 'dalli', 'gureum', 'haesol', 'soenun', 'eomni', 'mulbeom', 'mulsae', 'bakdal', 'darae', 'sori', 'base-w-12-court-dancer', 'hwalmi', 'gaennae', 'dokmudeom', 'base-w-14-feast-spy', 'base-w-25-bihwa-priestess', 'sincheongan', 'base-w-40-mujin-munui', 'halla', 'yucheongan', 'base-w-02-goguryeo-lady', 'gaon', 'base-w-24-apdok-queen', 'base-w-61-iseo-sinae', 'goeun', 'base-w-05-baekje-queen', 'mdallae', 'nuri', 'base-w-75-daegaya-soemoe', 'soebi'])
+const PX_DUEL: ReadonlySet<string> = new Set(['beom', 'maehwa', 'base-w-31-dabeol-dalbit', 'haebi', 'areum', 'base-w-13-young-archer', 'base-w-10-pirate-captain', 'base-w-17-mahan-pearl-diver', 'base-w-06-buyeo-huntress', 'base-w-64-miri-dallae', 'ara', 'base-w-22-dongye-tiger-huntress', 'noeul', 'sagong', 'sinneoul', 'heo', 'base-w-08-mahan-warrior', 'base-w-23-usisan-whale-queen', 'base-w-26-iseo-tomboy-general', 'base-w-72-eumjeup-beol', 'tneoul', 'odi', 'base-w-76-gampyeong-baetsagong', 'base-w-34-chopal-deulme', 'base-w-102-garak-dana', 'base-w-36-baekje-maena', 'base-w-56-dongokjeo-sogeum', 'budeul', 'base-w-53-hwanna-gabi', 'base-w-18-jinhan-salt-widow', 'beombal', 'irang', 'sogeumbi', 'baram', 'byeol', 'base-w-71-yeonna-neoul', 'base-w-39-gosaburi-galmae', 'base-w-41-hwanna-beodeul', 'base-w-79-yangmaek-solmae', 'base-w-46-geonma-maru', 'base-w-48-mujin-mudeung', 'base-w-80-usan-gangchi', 'base-w-81-byeokjin-byeolbit', 'beomi', 'danbi', 'dalli', 'gureum', 'haesol', 'soenun', 'eomni', 'mulbeom', 'mulsae', 'bakdal', 'darae', 'sori', 'base-w-12-court-dancer', 'hwalmi', 'gaennae', 'dokmudeom', 'base-w-14-feast-spy', 'base-w-25-bihwa-priestess', 'sincheongan', 'base-w-40-mujin-munui', 'halla', 'yucheongan', 'base-w-02-goguryeo-lady', 'gaon', 'base-w-24-apdok-queen', 'base-w-61-iseo-sinae', 'goeun', 'base-w-05-baekje-queen', 'mdallae', 'nuri', 'base-w-75-daegaya-soemoe', 'soebi', 'base-w-38-sangdang-bulmae'])
 /** 띠 그림 — 기본은 anim-px(도트 규격) 먼저, 없으면 옛 띠로 (img 의 onerror 가 갈아 끼운다) */
 const strip = (s: string): HTMLImageElement => pxMode
   ? DUEL_ATLASES[s] !== undefined && !PX_DUEL.has(s) ? img(`realm/duel/sprites/gen-${s}.png`, `realm/anim-px/gen-${s}.png`)

diff --git a/src/tune/params.ts b/src/tune/params.ts
@@ -1535,6 +1535,7 @@ export const HAEBI_IDLE = {
     nuri: { cells: 38, base: [0, 1], hold: 2.4, fall: [18, 20, 21, 19], quirk: [22, 23, 24, 25], quirkTimes: [.3, .32, .4, .28], attack: { cells: [26, 27, 28, 29, 30, 31, 32, 33], times: [.09, .08, .11, .05, .15, .07, .08, .12], hit: 4 }, hurt: [34, 35], rise: [36, 37], xGeom: { h: 224, root: 92, foot: 216 } },
     'base-w-75-daegaya-soemoe': { cells: 38, base: [0, 1], hold: 2.4, fall: [18, 20, 21, 19], quirk: [22, 23, 24, 25], quirkTimes: [.3, .32, .4, .28], attack: { cells: [26, 27, 28, 29, 30, 31, 32, 33], times: [.09, .08, .11, .05, .15, .07, .08, .12], hit: 4 }, hurt: [34, 35], rise: [36, 37], xGeom: { h: 224, root: 92, foot: 216 } },
     soebi: { cells: 38, base: [0, 1], hold: 2.4, fall: [18, 20, 21, 19], quirk: [22, 23, 24, 25], quirkTimes: [.3, .32, .4, .28], attack: { cells: [26, 27, 28, 29, 30, 31, 32, 33], times: [.09, .08, .11, .05, .15, .07, .08, .12], hit: 4 }, hurt: [34, 35], rise: [36, 37], xGeom: { h: 224, root: 92, foot: 216 } },
+    'base-w-38-sangdang-bulmae': { cells: 38, base: [0, 1], hold: 2.4, fall: [18, 20, 21, 19], quirk: [22, 23, 24, 25], quirkTimes: [.3, .32, .4, .28], attack: { cells: [26, 27, 28, 29, 30, 31, 32, 33], times: [.09, .08, .11, .05, .15, .07, .08, .12], hit: 4 }, hurt: [34, 35], rise: [36, 37], xGeom: { h: 224, root: 92, foot: 216 } },
   },
 } as const
 export const HAEBI_ANIM = {

diff --git a/src/raid/hero-hd.ts b/src/raid/hero-hd.ts
@@ -15,7 +15,6 @@ export const HERO_HD: Readonly<Record<string, string>> = {
   'anim-px/gen-aw1-base-w-53-hwanna-gabi.png': 'anim-px/gen-aw1-base-w-53-hwanna-gabi_hd.png',
   'anim-px/gen-aw1-base-w-38-sangdang-bulmae.png': 'anim-px/gen-aw1-base-w-38-sangdang-bulmae_hd.png',
   'anim-px/gen-aryeong.png': 'anim-px/gen-aryeong_hd.png',
-  'anim-px/gen-base-w-38-sangdang-bulmae.png': 'anim-px/gen-base-w-38-sangdang-bulmae_hd.png',
   'anim-px/gen-base-w-29-golpo-janmul.png': 'anim-px/gen-base-w-29-golpo-janmul_hd.png',
   'anim-px/gen-base-w-27-mokji-jinha.png': 'anim-px/gen-base-w-27-mokji-jinha_hd.png',
   'anim-px/gen-aw1-base-w-36-baekje-maena.png': 'anim-px/gen-aw1-base-w-36-baekje-maena_hd.png',

diff --git a/tools/sprite-kit/anim-harness.py b/tools/sprite-kit/anim-harness.py
@@ -116,6 +116,7 @@ HEROES = {
     'haebi': dict(hit=True, strip='gen-haebi', atk='chop', atk8=True, act=True),   # act = 공격 여덟 칸이 넓은 동작 칸(240×224 · 뿌리 92 · 발 줄 216)
     'soemoe': dict(hit=True, strip='gen-base-w-75-daegaya-soemoe', atk='chop', atk8=True, act=True),   # 대가야 쇠모(쇠망치 · 가슴 M · 우람) · 11-25 도끼·망치 묶음
     'soebi': dict(hit=True, strip='gen-soebi', atk='chop', atk8=True, act=True, legacy=(('a', 1), ('b', 3), ('b', 3), ('b', 4))),   # 쇠비(큰 돌 쇠망치 · 가슴 L) · 11-25 도끼·망치 묶음
+    'bulmae': dict(hit=True, strip='gen-base-w-38-sangdang-bulmae', atk='chop', atk8=True, act=True),   # 상당 불매(쇠망치 · 가슴 M) · 11-25 도끼·망치 묶음
     'areum': dict(hit=True, strip='gen-areum', atk='slam', atk8=True, act=True, lock='none'),   # 받은 그림 그대로(얼굴을 떠다 붙이지 않는다 — 11-24: 뭉친 얼굴이 여덟 칸에 퍼졌다) · 옛 lock='face': 메가 머리 뒤로 지나간다 — 머리 상자는 메를 자르고(「포스터」), 윗몸을 통째로 묶으면 떠다닌다(11-24 형) → 얼굴 안쪽만 묶는다
 }
 
